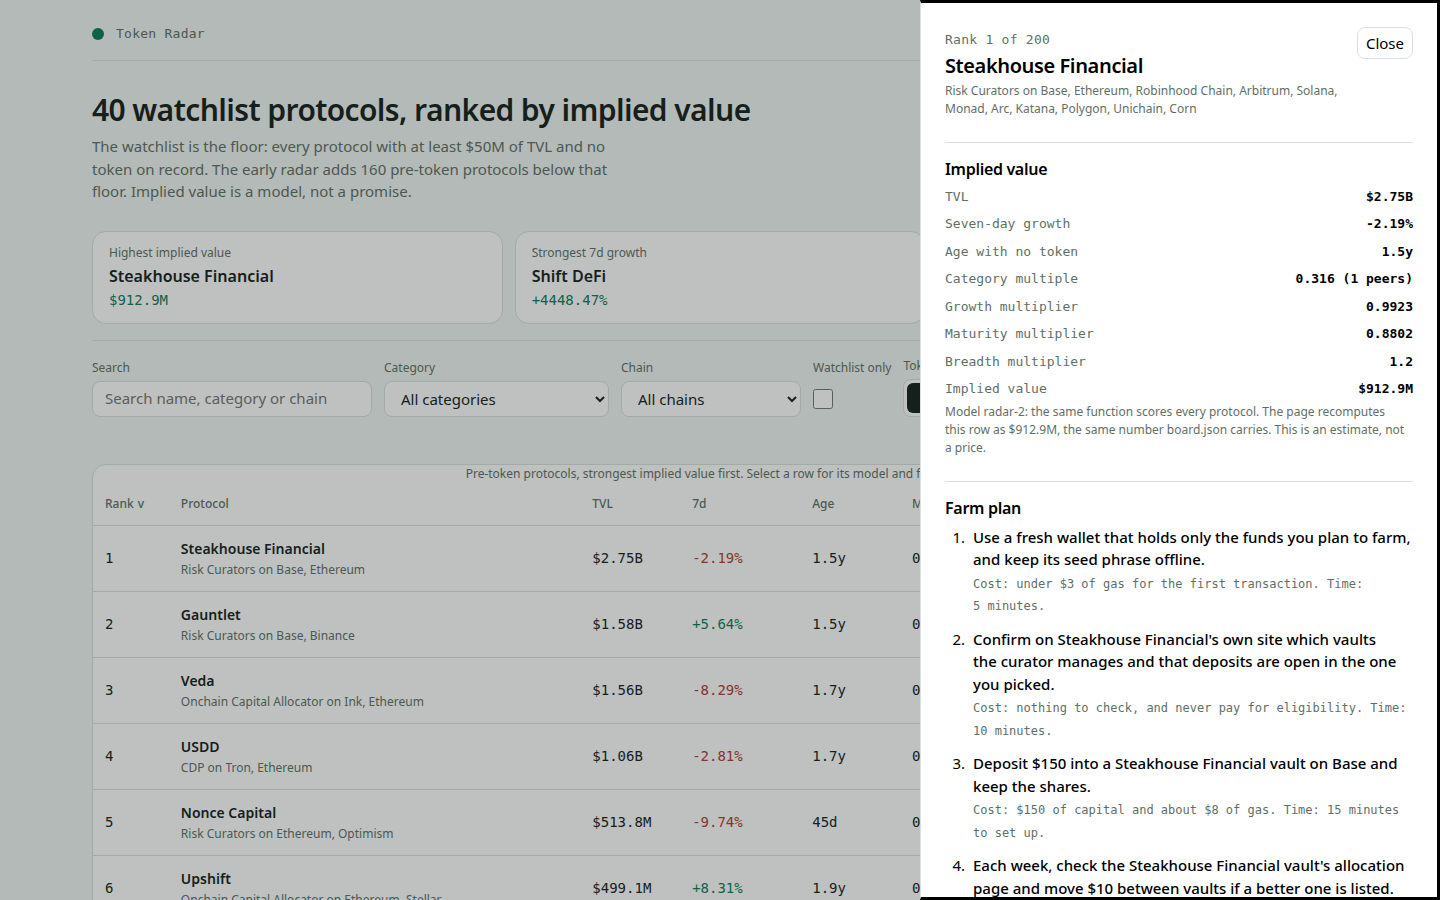
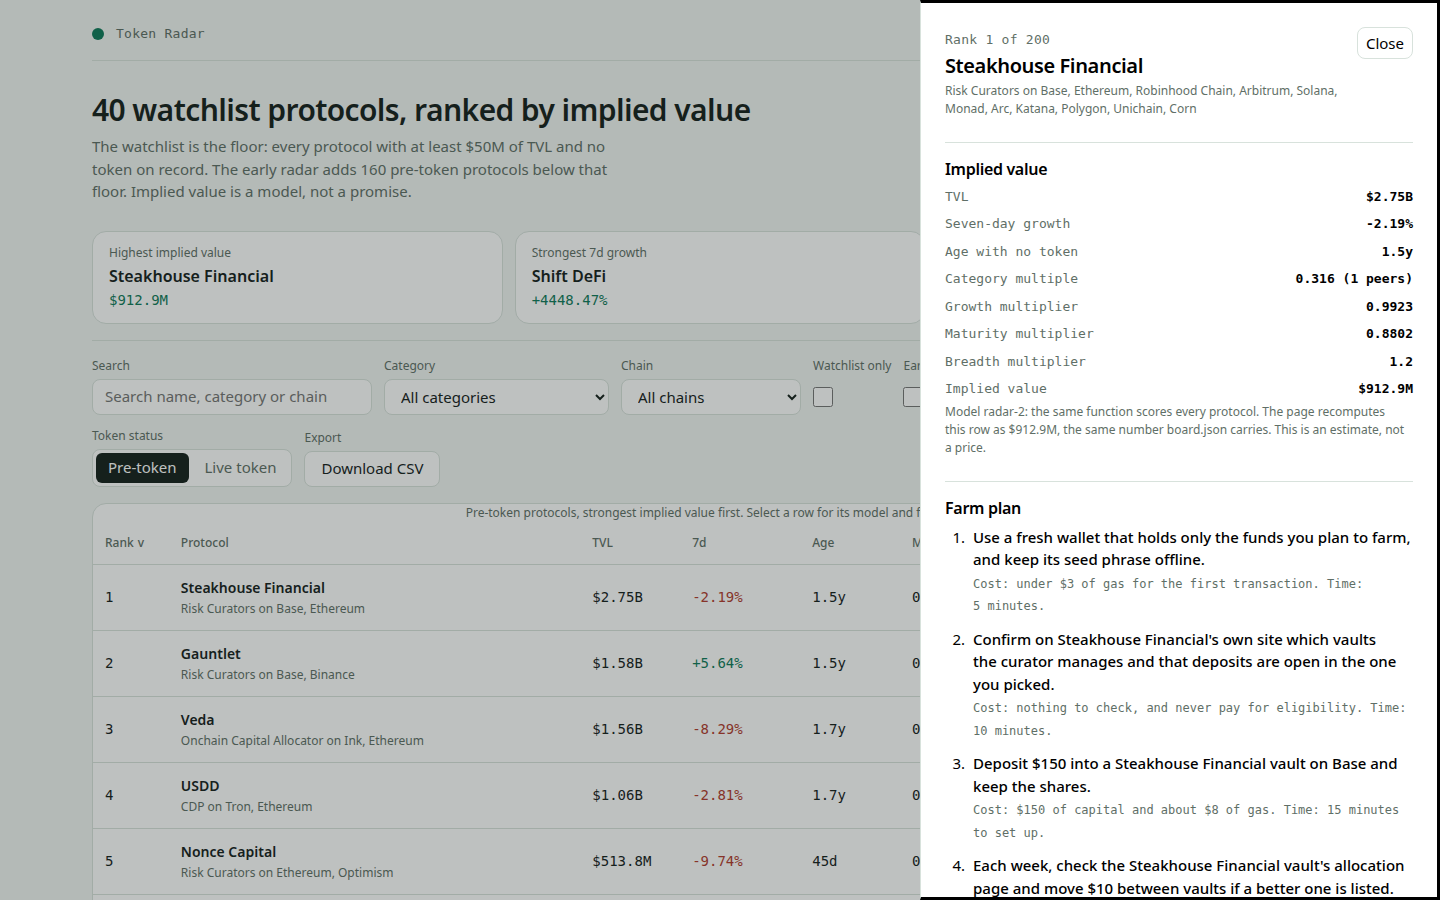
Add board verification mode and early/age filters on the dashboard

diff --git a/lib/verify.ts b/lib/verify.ts
@@ -1,0 +1,117 @@
+// An independent check of a finished board against the snapshot it claims to score.
+//
+// main.ts refuses a board its own gate rejects, but a reader holding only board.json and the
+// snapshot has no way to tell whether the numbers in the file are the model's numbers or a
+// hand-edited copy. This module is that way: it re-derives the board from the snapshot with the
+// model in lib/model.ts and compares the two row by row, field by field, so any drift between
+// the file and the model is named, not suspected. Run it through the entrypoint:
+//
+//   node main.ts --verify <board.json> --input <snapshot.json>
+//
+// It exits 0 when the board is exactly the model's board, and 1 with one line per problem when
+// it is not. It reads files and writes nothing.
+
+import { boardIssue, buildBoard, parseSnapshot, type BoardRow, type Snapshot } from './model.ts';
+
+/** The outcome of a verification: whether the board matched, and every problem found. */
+export interface VerifyReport {
+  ok: boolean;
+  rows_checked: number;
+  watchlist_covered: number;
+  watchlist_size: number;
+  problems: string[];
+}
+
+/** Parse a board file's text into rows, or explain why it is not a board at all. */
+function parseBoard(text: string): { rows: BoardRow[] } | { error: string } {
+  let raw: unknown;
+  try {
+    raw = JSON.parse(text);
+  } catch {
+    return { error: 'board.json is not JSON' };
+  }
+  if (typeof raw !== 'object' || raw === null || Array.isArray(raw)) return { error: 'board.json is not a JSON object' };
+  const rows = (raw as Record<string, unknown>).rows;
+  if (!Array.isArray(rows)) return { error: 'board.json has no rows array' };
+  return { rows: rows as BoardRow[] };
+}
+
+/** The fields two rows must agree on for the file to be the model's board. */
+function rowProblems(given: BoardRow, expected: BoardRow): string[] {
+  const problems: string[] = [];
+  const at = `row ${expected.rank} (${expected.slug})`;
+  if (given.slug !== expected.slug) return [`${at}: the file has ${given.slug ?? 'no slug'} in this rank`];
+  if (given.rank !== expected.rank) problems.push(`${at}: rank is ${given.rank}`);
+  if (given.implied_value_usd !== expected.implied_value_usd) {
+    problems.push(`${at}: implied value is ${given.implied_value_usd}, the model computes ${expected.implied_value_usd}`);
+  }
+  if (given.tvl_usd !== expected.tvl_usd) problems.push(`${at}: TVL is ${given.tvl_usd}, the snapshot says ${expected.tvl_usd}`);
+  if (given.token_status !== 'pre-token') problems.push(`${at}: token_status is ${given.token_status}, not pre-token`);
+  const givenSteps = Array.isArray(given.farm_steps) ? given.farm_steps : [];
+  if (givenSteps.length !== expected.farm_steps.length) {
+    problems.push(`${at}: ${givenSteps.length} farm steps, the model writes ${expected.farm_steps.length}`);
+  } else {
+    for (let i = 0; i < givenSteps.length; i++) {
+      if (givenSteps[i] !== expected.farm_steps[i]) problems.push(`${at}: farm step ${i + 1} differs from the model's step`);
+    }
+  }
+  const gm = given.model;
+  const em = expected.model;
+  if (gm === undefined || gm === null) {
+    problems.push(`${at}: no model breakdown recorded`);
+  } else {
+    if (gm.category_multiple !== em.category_multiple) problems.push(`${at}: category multiple is ${gm.category_multiple}, the model uses ${em.category_multiple}`);
+    if (gm.growth_multiplier !== em.growth_multiplier) problems.push(`${at}: growth multiplier is ${gm.growth_multiplier}, the model uses ${em.growth_multiplier}`);
+    if (gm.maturity_multiplier !== em.maturity_multiplier) problems.push(`${at}: maturity multiplier is ${gm.maturity_multiplier}, the model uses ${em.maturity_multiplier}`);
+    if (gm.breadth_multiplier !== em.breadth_multiplier) problems.push(`${at}: breadth multiplier is ${gm.breadth_multiplier}, the model uses ${em.breadth_multiplier}`);
+  }
+  return problems;
+}
+
+/**
+ * Verify a board file's text against a snapshot's text. The gate's own rules run first (coverage,
+ * ranks, order, step shapes); then the board is rebuilt from the snapshot and compared in full.
+ */
+export function verifyBoard(boardText: string, snapshotText: string): VerifyReport {
+  const snapshot: Snapshot = parseSnapshot(snapshotText);
+  const parsed = parseBoard(boardText);
+  if ('error' in parsed) {
+    return { ok: false, rows_checked: 0, watchlist_covered: 0, watchlist_size: snapshot.watchlist.length, problems: [parsed.error] };
+  }
+  const given = parsed.rows;
+  const problems: string[] = [];
+  const gate = boardIssue(given, snapshot);
+  if (gate !== null) problems.push(`gate: ${gate}`);
+  const expected = buildBoard(snapshot);
+  if (given.length !== expected.length) {
+    problems.push(`the file holds ${given.length} rows, the model scores ${expected.length}`);
+  }
+  const byRank = new Map(given.map((r) => [r.rank, r]));
+  let checked = 0;
+  for (const want of expected) {
+    const got = byRank.get(want.rank);
+    if (got === undefined) {
+      problems.push(`row ${want.rank} (${want.slug}) is missing from the file`);
+      continue;
+    }
+    checked++;
+    problems.push(...rowProblems(got, want));
+    if (problems.length > 25) break;
+  }
+  const covered = snapshot.watchlist.filter((s) => given.some((r) => r.slug === s)).length;
+  return {
+    ok: problems.length === 0,
+    rows_checked: checked,
+    watchlist_covered: covered,
+    watchlist_size: snapshot.watchlist.length,
+    problems,
+  };
+}
+
+/** A report as the lines the entrypoint prints: one verdict, then one line per problem. */
+export function reportLines(report: VerifyReport): string[] {
+  const head = report.ok
+    ? `verify: ok, ${report.rows_checked} rows match the model, watchlist ${report.watchlist_covered}/${report.watchlist_size}`
+    : `verify: FAILED, ${report.problems.length} problem${report.problems.length === 1 ? '' : 's'}, watchlist ${report.watchlist_covered}/${report.watchlist_size}`;
+  return [head, ...report.problems.map((p) => `verify: ${p}`)];
+}

diff --git a/dashboard/app.js b/dashboard/app.js
@@ -7,7 +7,17 @@
   var DATA = window.RADAR;
   if (!DATA) return;
   var app = document.getElementById('board');
-  var state = { q: '', category: 'all', chain: 'all', watchlistOnly: false, tab: 'pre-token', sort: 'implied', dir: -1, selected: null };
+  var state = { q: '', category: 'all', chain: 'all', watchlistOnly: false, earlyOnly: false, ageBand: 'any', tab: 'pre-token', sort: 'implied', dir: -1, selected: null };
+
+  // The age bands the board can be cut by: a fresh launch, a young protocol, an established one.
+  // An unknown age is its own fact and matches no band but 'any'.
+  function ageMatches(days) {
+    if (state.ageBand === 'any') return true;
+    if (days === null || days === undefined) return false;
+    if (state.ageBand === 'fresh') return days < 90;
+    if (state.ageBand === 'young') return days >= 90 && days < 365;
+    return days >= 365;
+  }
 
   var usd = new Intl.NumberFormat('en-US', { style: 'currency', currency: 'USD', maximumFractionDigits: 0 });
   function fmtUsd(n) {
@@ -87,6 +97,8 @@
       if (state.category !== 'all' && (r.category || 'Other') !== state.category) return false;
       if (state.chain !== 'all' && (r.chains || []).indexOf(state.chain) < 0) return false;
       if (state.watchlistOnly && !r.on_watchlist) return false;
+      if (state.earlyOnly && r.on_watchlist) return false;
+      if (!ageMatches(r.age_days)) return false;
       if (!q) return true;
       var hay = [r.name, r.slug, r.category, (r.chains || []).join(' ')].join(' ').toLowerCase();
       return hay.indexOf(q) >= 0;
@@ -189,6 +201,15 @@
     chainSelect.addEventListener('change', function () { state.chain = chainSelect.value; render(); });
     var wl = el('input', { type: 'checkbox', id: 'watchlist-only', checked: state.watchlistOnly ? 'checked' : null });
     wl.addEventListener('change', function () { state.watchlistOnly = wl.checked; render(); });
+    var eo = el('input', { type: 'checkbox', id: 'early-only', checked: state.earlyOnly ? 'checked' : null });
+    eo.addEventListener('change', function () { state.earlyOnly = eo.checked; render(); });
+    var ageSelect = el('select', { id: 'age-band', 'aria-label': 'Filter by age with no token' },
+      el('option', { value: 'any', text: 'Any age', selected: state.ageBand === 'any' ? 'selected' : null }),
+      el('option', { value: 'fresh', text: 'Fresh, under 90 days', selected: state.ageBand === 'fresh' ? 'selected' : null }),
+      el('option', { value: 'young', text: 'Young, 90 days to a year', selected: state.ageBand === 'young' ? 'selected' : null }),
+      el('option', { value: 'established', text: 'Established, over a year', selected: state.ageBand === 'established' ? 'selected' : null })
+    );
+    ageSelect.addEventListener('change', function () { state.ageBand = ageSelect.value; render(); });
     var pre = el('button', { type: 'button', 'aria-pressed': state.tab === 'pre-token' ? 'true' : 'false', text: 'Pre-token', onclick: function () { state.tab = 'pre-token'; render(); } });
     var live = el('button', { type: 'button', 'aria-pressed': state.tab === 'live' ? 'true' : 'false', text: 'Live token', onclick: function () { state.tab = 'live'; render(); } });
     return el('div', { class: 'controls' },
@@ -196,6 +217,8 @@
       el('div', { class: 'field' }, el('label', { for: 'category', text: 'Category' }), select),
       el('div', { class: 'field' }, el('label', { for: 'chain', text: 'Chain' }), chainSelect),
       el('div', { class: 'field' }, el('label', { for: 'watchlist-only', text: 'Watchlist only' }), wl),
+      el('div', { class: 'field' }, el('label', { for: 'early-only', text: 'Early radar only' }), eo),
+      el('div', { class: 'field' }, el('label', { for: 'age-band', text: 'Age with no token' }), ageSelect),
       el('div', { class: 'field' }, el('span', { class: 'sub', text: 'Token status' }), el('div', { class: 'tabs' }, pre, live)),
       el('div', { class: 'field' }, el('span', { class: 'sub', text: 'Export' }), el('button', { class: 'button', type: 'button', text: 'Download CSV', onclick: exportCsv })),
       el('span', { class: 'count', text: state.tab === 'pre-token' ? rows().length + ' rows shown' : DATA.live.length + ' live-token protocols' })
@@ -217,7 +240,7 @@
       return el('div', { class: 'panel' }, el('div', { class: 'empty' },
         el('h2', { text: 'No protocol matches that filter' }),
         el('p', { text: 'Clear the search or pick another category to see the board again.' }),
-        el('button', { class: 'button primary', type: 'button', text: 'Clear filters', onclick: function () { state.q = ''; state.category = 'all'; state.chain = 'all'; state.watchlistOnly = false; writeHash(); render(); } })
+        el('button', { class: 'button primary', type: 'button', text: 'Clear filters', onclick: function () { state.q = ''; state.category = 'all'; state.chain = 'all'; state.watchlistOnly = false; state.earlyOnly = false; state.ageBand = 'any'; writeHash(); render(); } })
       ));
     }
     var max = list[0].implied_value_usd || 1;

diff --git a/main.ts b/main.ts
@@ -10,6 +10,10 @@
 // page and the board can never drift apart. The board covers the whole watchlist, adds the early
 // pre-token protocols below its floor, states the model, and gives every protocol a farm plan.
 //
+// A finished board can be checked against its snapshot without writing anything:
+//   node main.ts --verify out/board.json --input ../input/snapshot.json
+// exits 0 when the file is exactly the model's board, and names every drift when it is not.
+//
 // Outside the grader's container, MAKEFUN_OUTPUT_DIR stands in for /output:
 //   mkdir -p out && MAKEFUN_OUTPUT_DIR=out node main.ts --input ../input/snapshot.json
 
@@ -17,6 +21,7 @@ import { copyFileSync, existsSync, mkdirSync, readFileSync, readdirSync, statSyn
 import { join } from 'node:path';
 import { fileURLToPath } from 'node:url';
 import { boardIssue, buildRadar, dataScript, parseSnapshot, summarizeBoard } from './lib/model.ts';
+import { reportLines, verifyBoard } from './lib/verify.ts';
 import { buildDossier } from './vendor/makefun-board.ts';
 
 const here = fileURLToPath(new URL('.', import.meta.url));
@@ -39,6 +44,20 @@ const inputFile = inputArg.endsWith('.json') ? inputArg : join(inputArg, 'snapsh
 if (!existsSync(inputFile)) {
   process.stderr.write(`token radar: no snapshot at ${inputFile}: pass --input <snapshot.json|directory> or mount the sealed /input\n`);
   process.exit(2);
+}
+
+// Verify mode: check a finished board against the snapshot and stop. No output is written;
+// the exit code is the verdict, so a script can gate on it.
+const verifyAt = process.argv.indexOf('--verify');
+if (verifyAt >= 0) {
+  const boardFile = process.argv[verifyAt + 1];
+  if (boardFile === undefined || !existsSync(boardFile)) {
+    process.stderr.write('token radar: --verify needs the path of a board.json to check\n');
+    process.exit(2);
+  }
+  const report = verifyBoard(readFileSync(boardFile, 'utf8'), readFileSync(inputFile, 'utf8'));
+  for (const line of reportLines(report)) process.stdout.write(`${line}\n`);
+  process.exit(report.ok ? 0 : 1);
 }
 const out = arg('output', process.env.MAKEFUN_OUTPUT_DIR ?? '/output');
 
